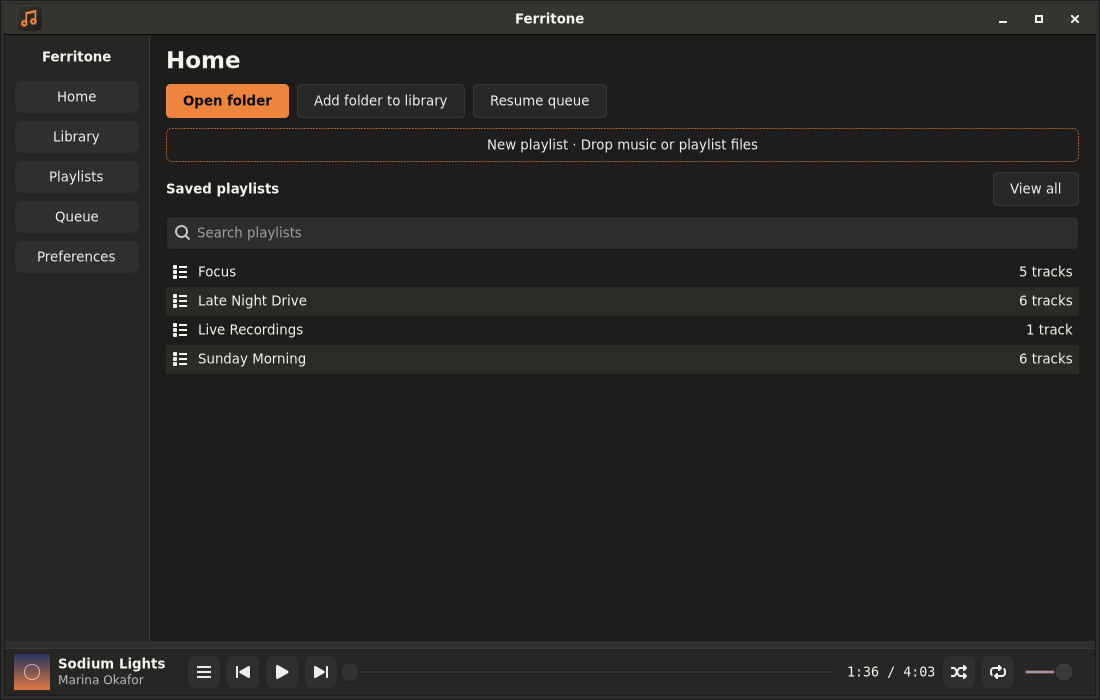
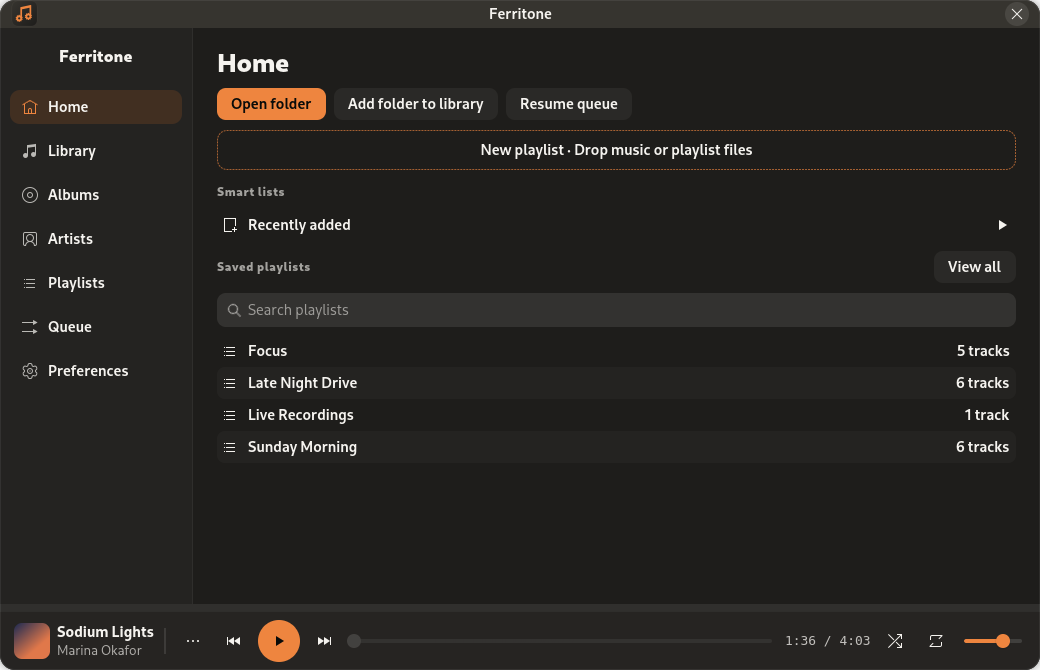
Refresh the screenshots
Retake them from the current interface with a made-up library, and add
the albums page and the mini player with lyrics to the README.

diff --git a/README.md b/README.md
@@ -2,7 +2,7 @@
 
 Ferritone is a Linux desktop music player written in Rust with GTK 4 and libadwaita. It organizes local audio into a searchable library, saved playlists, and a playback queue you can resume after restarting the app.
 
-![Ferritone's Home page with saved playlists and the playback bar](assets/screenshots/home.png)
+![Ferritone's library with tracks sorted by title and the playback bar](assets/screenshots/library.png)
 
 ## Install
 
@@ -27,6 +27,15 @@ On other distributions, download the `.flatpak` file from the same release and i
 - Two looks: Ferritone's own charcoal with the accent color you choose, or plain GNOME/Adwaita in light or dark. English, Brazilian Portuguese, Spanish, and French.
 
 Ferritone plays local audio; file format support depends on the installed GStreamer plugins.
+
+## Screenshots
+
+| | |
+| --- | --- |
+| ![Home with smart lists and saved playlists](assets/screenshots/home.png) | ![Albums as a grid of covers](assets/screenshots/albums.png) |
+| Home, with smart lists and saved playlists | Albums, as a grid of covers |
+| ![A playlist with reorder buttons and a drop zone](assets/screenshots/playlist.png) | ![The mini player showing synchronized lyrics](assets/screenshots/mini.png) |
+| A playlist you reorder by dragging | The mini player with synchronized lyrics |
 
 ## Documentation
 
